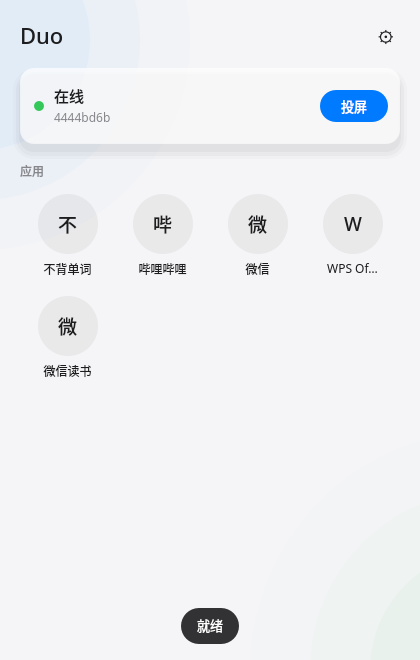
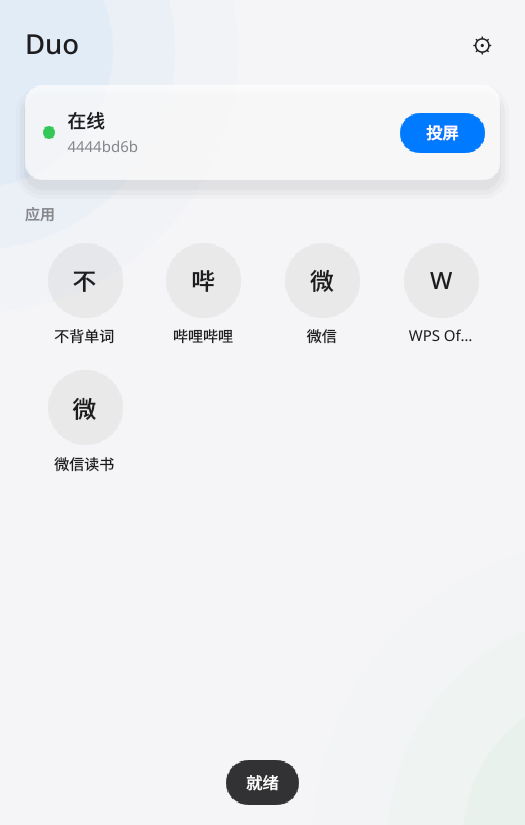
fix mixed-dpi layout, cross-screen snap, virtual home semantics

diff --git a/duo/ui/qml/Main.qml b/duo/ui/qml/Main.qml
@@ -18,10 +18,26 @@ import QtQuick.Effects
 ApplicationWindow {
     id: root
 
-    width: 420
-    height: 660
-    minimumWidth: 360
-    minimumHeight: 520
+    // ============ 混合 DPI 双屏：舒适缩放 + 按屏幕可用尺寸自适应 ============
+    // Qt6 默认开启 per-monitor High-DPI 缩放（app.py 不设任何 QT_* 缩放
+    // 覆盖）：下面所有 px 值都是 DIP，由 Qt 按每屏 DPR 渲染——这解释了
+    // "4K 屏（125-200% 缩放）布局正确"。而 100% 缩放的屏（DPR=1.0，常见
+    // 于 2K 屏）对固定 DIP 设计不做任何放大，12-13px 字号原样渲染，观感
+    // 拥挤。uiScale 给低 DPR 屏一档最高 125% 的舒适缩放：DPR≥1.25 的屏
+    // 恒为 1.0（4K 现状不变），DPR=1.0 的屏取 1.25（与 Windows 对 2K 屏
+    // 的建议缩放一致）。绑定到窗口所在屏，跨屏拖动时随每屏 DPR 实时重算。
+    readonly property real uiScale: Math.max(1.0, Math.min(1.25, 1.25 / Screen.devicePixelRatio))
+
+    // 屏幕可用尺寸（DIP）；offscreen/无工作区平台返回不设限的大值，
+    // 让测试与出图不被钳制。
+    function availWidthDip() { return Screen.availableWidth > 0 ? Screen.availableWidth : 1000000 }
+    function availHeightDip() { return Screen.availableHeight > 0 ? Screen.availableHeight : 1000000 }
+
+    // 初始/最小尺寸 = 设计值 × 舒适档位，再钳制到所在屏可用范围。
+    width: Math.min(Math.round(420 * uiScale), Math.round(availWidthDip() * 0.92))
+    height: Math.min(Math.round(660 * uiScale), Math.round(availHeightDip() * 0.92))
+    minimumWidth: Math.min(Math.round(360 * uiScale), Math.round(availWidthDip() * 0.92))
+    minimumHeight: Math.min(Math.round(520 * uiScale), Math.round(availHeightDip() * 0.92))
     visible: true
     title: "Duo"
     color: Style.bg
@@ -45,10 +61,22 @@ ApplicationWindow {
         onActivated: root.openSettings()
     }
 
-    StackView {
-        id: stack
-        anchors.fill: parent
-        initialItem: panelComp
+    // 内容缩放层：子树内布局坐标保持未缩放 DIP（面板/设置页零改动），
+    // 整层按 uiScale 从左上角放大后恰好铺满窗口。文字与矢量按最终尺寸
+    // 栅格化，缩放后不糊。手动调整过窗口大小时用户接管尺寸，缩放档位
+    // 仍随所在屏跟随。
+    Item {
+        id: zoomLayer
+        width: Math.ceil(parent.width / root.uiScale)
+        height: Math.ceil(parent.height / root.uiScale)
+        scale: root.uiScale
+        transformOrigin: Item.TopLeft
+
+        StackView {
+            id: stack
+            anchors.fill: parent
+            initialItem: panelComp
+        }
     }
 
     Component {

diff --git a/duo/resources/chrome_overlay.cs b/duo/resources/chrome_overlay.cs
@@ -6,7 +6,10 @@
 //   cursor in the top edge band  -> top-right capsule: minimize / maximize
 //                                   (taskbar-safe, emulated) / close
 //                                  + top-center pill: visible move grip (drag)
-//   always-on (window visible)   -> chin: "<" back  "O" home (adb keyevents)
+//   always-on (window visible)   -> chin: "<" back (adb keyevent);
+//                                   "O" hold: HOME on physical mirroring,
+//                                   session close on virtual displays
+//                                   (no launcher there - see ChinHold)
 //
 // Resize policy comes from --display-mode: mirror/fixed windows stay glued
 // to the video aspect ratio (live sizes are tailed from the session log,
@@ -102,6 +105,7 @@ namespace DuoChrome
         [DllImport("user32.dll")] public static extern bool SetWindowPos(
             IntPtr h, IntPtr after, int x, int y, int cx, int cy, uint flags);
         [DllImport("user32.dll")] public static extern IntPtr MonitorFromWindow(IntPtr h, uint flags);
+        [DllImport("user32.dll")] public static extern IntPtr MonitorFromPoint(POINT pt, uint flags);
         [DllImport("user32.dll")] public static extern bool GetMonitorInfoW(IntPtr h, ref MONITORINFO mi);
         [DllImport("user32.dll")] public static extern bool PrintWindow(IntPtr h, IntPtr hdc, uint flags);
         [DllImport("user32.dll")] public static extern IntPtr GetDC(IntPtr h);
@@ -535,9 +539,10 @@ namespace DuoChrome
             int btn = (int)(LogicalButton * Dpi);
             int h = (int)(LogicalHeight * Dpi);
             Size = new Size(600, h);           // width resynced by the controller
-            // mBack homage: one centered ring. Tap = BACK; press-and-hold =
-            // HOME (physical mirroring only - a virtual display has no
-            // launcher, so holding there does nothing).
+            // mBack homage: one centered ring. Tap = BACK; press-and-hold
+            // = Ctrl.ChinHold(): HOME on physical mirroring, session close
+            // on virtual displays (a virtual display has no launcher - see
+            // ChinHold for the tradeoff).
             Buttons.Add(new NavButton(
                 new Rectangle((600 - btn) / 2, (h - btn) / 2, btn, btn),
                 1, delegate { Ctrl.AdbKey(4); }));
@@ -546,8 +551,8 @@ namespace DuoChrome
             {
                 _hold.Stop();
                 _firedHold = true;
-                Log.Write("hold fired");
-                if (home) Ctrl.AdbKey(3);
+                Log.Write("hold fired home=" + home);
+                Ctrl.ChinHold();
             };
             WireInput();
         }
@@ -1492,7 +1497,7 @@ namespace DuoChrome
             if (bottom) B = Math.Max(_resizeStart.Bottom + dy, T + minH);
             Rectangle want = Rectangle.FromLTRB(L, T, R, B);
             if (RatioLock) want = ConstrainToVideo(want, _resizeEdge);
-            want = ConstrainToWorkArea(want);
+            want = ConstrainToWorkArea(want, _resizeEdge);
             bool ok = NativeMethods.SetWindowPos(_hwnd, IntPtr.Zero,
                 want.Left, want.Top, want.Width, want.Height,
                 0x0004 /*SWP_NOZORDER*/ | 0x0010 /*SWP_NOACTIVATE*/);
@@ -1559,18 +1564,42 @@ namespace DuoChrome
             return new Rectangle(x, y, ow, oh);
         }
 
-        /// <summary>Shrink an oversized drag result to fit the monitor work
-        /// area, preserving its proportions and rough center.</summary>
-        private Rectangle ConstrainToWorkArea(Rectangle want)
+        /// <summary>Shrink an oversized drag result to fit the work area of
+        /// the monitor under the rect's CENTER.
+        ///
+        /// Multi-monitor contract (mixed-DPI bug fix): MonitorFromWindow is
+        /// straddle-sensitive - for a window spanning two screens it flips
+        /// to the OTHER monitor mid-drag, which used to clamp the window
+        /// into the wrong screen's work area and re-center it, snapping the
+        /// window across the boundary (the reported "card switch at the
+        /// screen edge"). Picking by the center point follows the user's
+        /// drag target instead. And because a clamp may legitimately fire
+        /// while dragging across onto a smaller monitor, the shrunk rect
+        /// stays anchored at the edges NOT being dragged - the dragged
+        /// corner keeps chasing the cursor, nothing teleports.
+        /// Physical pixels throughout: work areas are per-monitor physical,
+        /// and a ratio already mixes with them DPI-free.</summary>
+        private Rectangle ConstrainToWorkArea(Rectangle want, int edge)
         {
-            Rectangle wa = WorkArea();
+            NativeMethods.POINT center;
+            center.X = want.Left + want.Width / 2;
+            center.Y = want.Top + want.Height / 2;
+            IntPtr mon = NativeMethods.MonitorFromPoint(center, 1 /*NEAREST*/);
+            NativeMethods.MONITORINFO mi = new NativeMethods.MONITORINFO();
+            mi.cbSize = Marshal.SizeOf(typeof(NativeMethods.MONITORINFO));
+            if (mon == IntPtr.Zero || !NativeMethods.GetMonitorInfoW(mon, ref mi))
+                return want;
+            Rectangle wa = Rectangle.FromLTRB(
+                mi.rcWork.Left, mi.rcWork.Top, mi.rcWork.Right, mi.rcWork.Bottom);
             if (want.Width <= wa.Width && want.Height <= wa.Height) return want;
             double scale = Math.Min((double)wa.Width / want.Width,
                                     (double)wa.Height / want.Height);
             int w = Math.Max(S(LogicalMinW), (int)(want.Width * scale));
-            int h = (int)(want.Height * scale);
-            int x = want.Left + (want.Width - w) / 2;
-            int y = want.Top + (want.Height - h) / 2;
+            int h = Math.Max(S(LogicalMinH), (int)(want.Height * scale));
+            bool dragLeft = edge == 10 || edge == 13 || edge == 16;
+            bool dragTop = edge == 12 || edge == 13 || edge == 14;
+            int x = dragLeft ? want.Right - w : want.Left;
+            int y = dragTop ? want.Bottom - h : want.Top;
             return new Rectangle(x, y, w, h);
         }
 
@@ -1931,6 +1960,44 @@ namespace DuoChrome
                 Log.Write("keyevent " + code + " sent");
             }
             catch (Exception ex) { Log.Write("keyevent failed: " + ex.Message); }
+        }
+
+        /// <summary>The chin ring's long-press action. Physical mirroring
+        /// (home enabled + display-mode mirror) sends HOME to the phone's
+        /// launcher. A virtual display (flex/fixed) has NO launcher to go
+        /// home to: keyevent 3 there makes Android raise the system
+        /// launcher's all-apps picker on the mirrored display (the reported
+        /// "confusing app selector"), and HOME on the physical display
+        /// instead would wake/alter the phone behind --turn-screen-off.
+        /// Closing the session window is the honest equivalent of "back to
+        /// desktop" on the PC side: scrcpy exits cleanly through WM_CLOSE
+        /// and the CLI tears the session down. (KISS tradeoff over
+        /// display-targeted HOME: `input keyevent --display` needs the
+        /// virtual display id, which scrcpy 4.1 does not surface to us.)
+        /// Note the gate is the DISPLAY TYPE, not the home flag alone:
+        /// `duo mirror --chrome` without --app runs a flex display with
+        /// home=1, and must also close rather than send keyevent 3.</summary>
+        public void ChinHold()
+        {
+            if (_homeEnabled && _displayMode.Equals("mirror"))
+            {
+                AdbKey(3);
+            }
+            else
+            {
+                CloseSessionWindow();
+            }
+        }
+
+        /// <summary>Close the mirrored window (WM_CLOSE): scrcpy exits
+        /// cleanly and the CLI's finally block stops this overlay and
+        /// releases the audio lock. Same path as the capsule's close
+        /// button.</summary>
+        public void CloseSessionWindow()
+        {
+            if (_hwnd == IntPtr.Zero || !NativeMethods.IsWindow(_hwnd)) return;
+            Log.Write("session close requested (virtual-display home)");
+            NativeMethods.PostMessageW(_hwnd, 0x0010 /*WM_CLOSE*/, IntPtr.Zero, IntPtr.Zero);
         }
 
         public void TopAction(int index)

diff --git a/duo/core/chrome.py b/duo/core/chrome.py
@@ -9,7 +9,11 @@ window (FindWindow by title, GetWindowRect, styles, z-order):
     cursor near the top edge    -> top-right capsule: minimize / maximize
                                    (taskbar-safe, emulated) / close
     window active               -> persistent chin: mBack ring, tap = back,
-                                   long-press = home (physical mirroring)
+                                   long-press = home (physical mirroring) or
+                                   session close (virtual displays: they have
+                                   no launcher - HOME there raises the system
+                                   launcher's all-apps picker on the mirrored
+                                   display, the "confusing app selector")
 
 The overlay itself is the C# program ``duo/resources/chrome_overlay.cs``,
 compiled on first use with the .NET Framework ``csc.exe`` that every Windows
@@ -106,8 +110,11 @@ def overlay_command(
 
         The overlay takes plain parameters: as a PE binary it receives real
         UTF-16 argv, so CJK titles need no base64 transport (that workaround
-        was PowerShell-specific). ``home`` enables the long-press-home gesture
-        (physical mirroring only: a virtual display has no launcher).
+        was PowerShell-specific). ``home`` marks a device-mirroring session
+        (no ``--app``): the chin's long-press sends HOME there. On virtual
+        displays (flex/fixed) the long-press instead CLOSES the session
+        window - a virtual display has no launcher, and keyevent 3 raises
+        the system launcher's all-apps picker on the mirrored display.
 
         ``display_mode`` drives resize policy: mirror/fixed keep the window
         glued to the video aspect ratio (sizes arrive through ``session_log``

diff --git a/duo/__main__.py b/duo/__main__.py
@@ -189,10 +189,15 @@ def _run_mirror(args: argparse.Namespace) -> int:
         if args.chrome:
                 if not title:
                         raise ChromeError("--chrome needs a window title: pass --app or --title")
-                # Long-press-home only makes sense when mirroring the real
-                # display; a virtual display has no launcher behind the app.
-                # mirror/fixed windows keep the video aspect ratio (sizes
-                # stream from the session log); flex windows resize freely.
+                # Chin ring long-press: HOME on physical mirroring; on
+                # virtual displays (flex/fixed) it CLOSES the session window
+                # instead - a virtual display has no launcher, and keyevent 3
+                # there raises the system launcher's all-apps picker on the
+                # mirrored display (the "confusing app selector"; the C#
+                # overlay gates on display-mode, so flex-without-app closes
+                # too). mirror/fixed windows keep the video aspect ratio
+                # (sizes stream from the session log); flex windows resize
+                # freely.
                 overlay = ChromeOverlay(
                         title=title,
                         serial=serial,

diff --git a/duo/ui/app.py b/duo/ui/app.py
@@ -137,6 +137,10 @@ class SettingsApi(QObject):
 
 def run_app() -> int:
         """Create the QML panel, resolve adb once, run the Qt event loop."""
+        # High-DPI 契约：Qt6 默认开启 per-monitor High-DPI 缩放，这里刻意
+        # 不设 QT_ENABLE_HIGHDPI_SCALING / QT_SCALE_FACTOR 等任何覆盖，让
+        # QML 里的 px 值保持 DIP 语义、按每屏 DPR 渲染（混合 DPI 双屏下
+        # 100% 缩放屏的舒适档位在 Main.qml 的 uiScale 处理）。
         app = QGuiApplication(sys.argv)
         # Same resolution as the CLI: settings override > PATH probe > the
         # literal "adb.exe" fallback, so panel and spawned sessions share adb.
